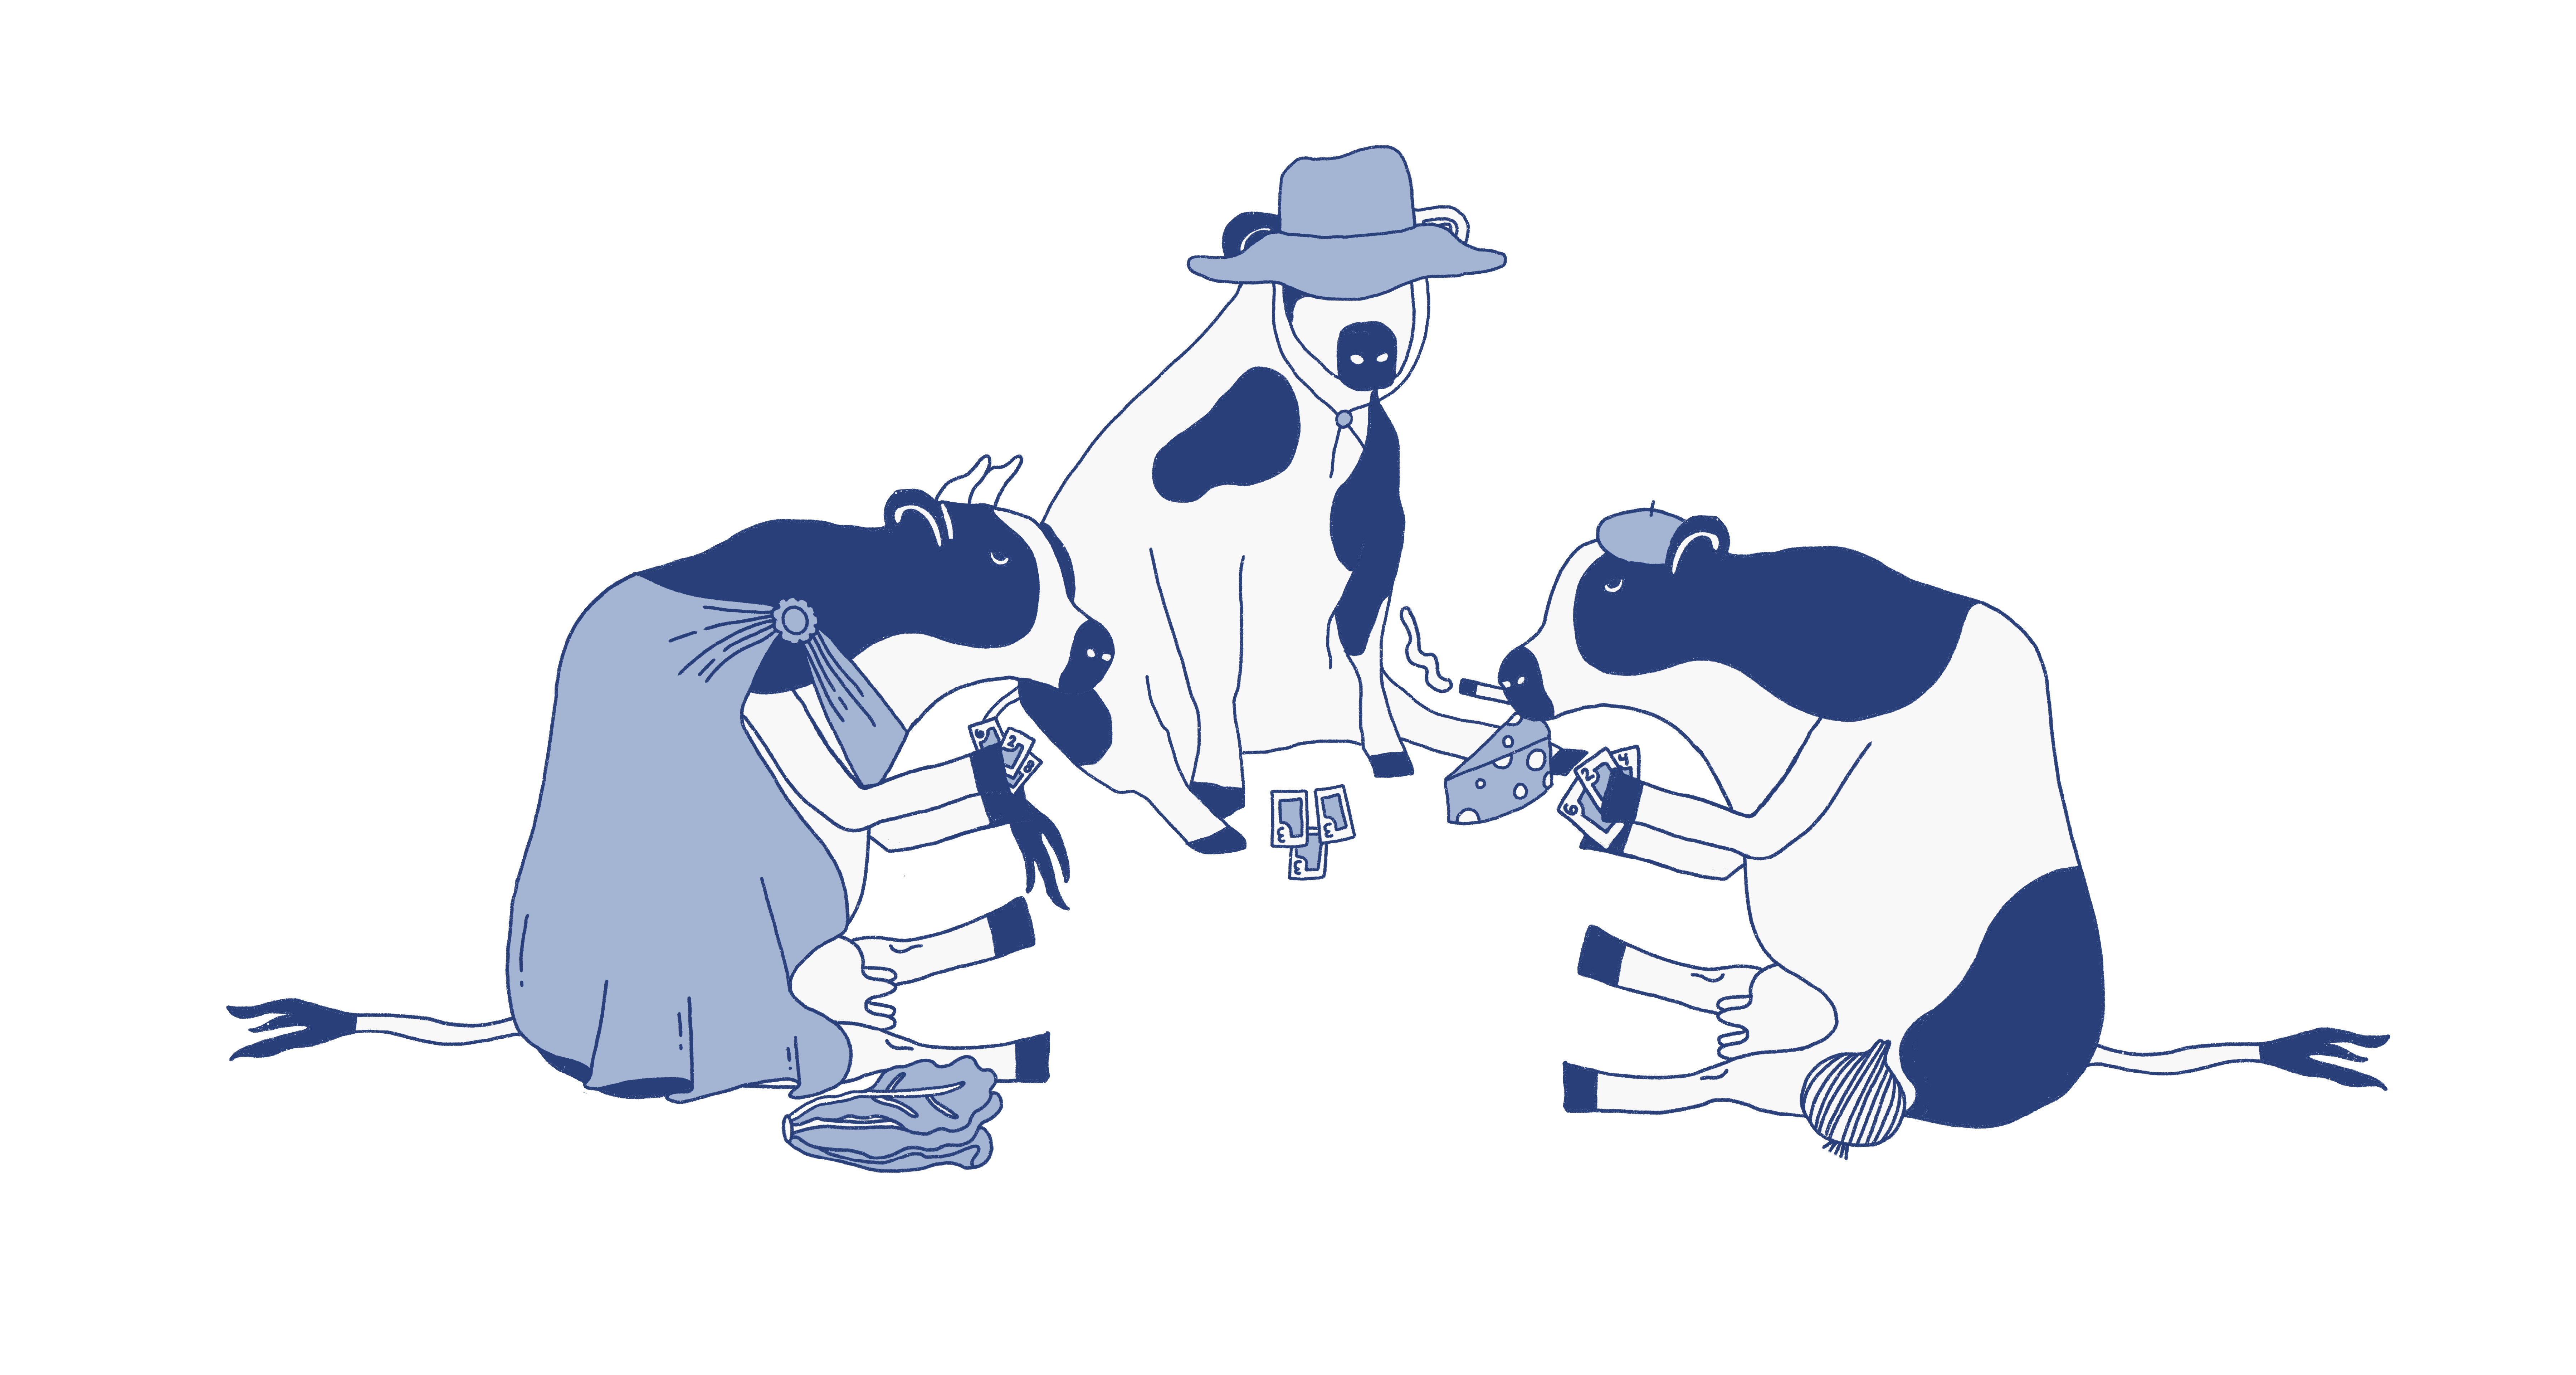
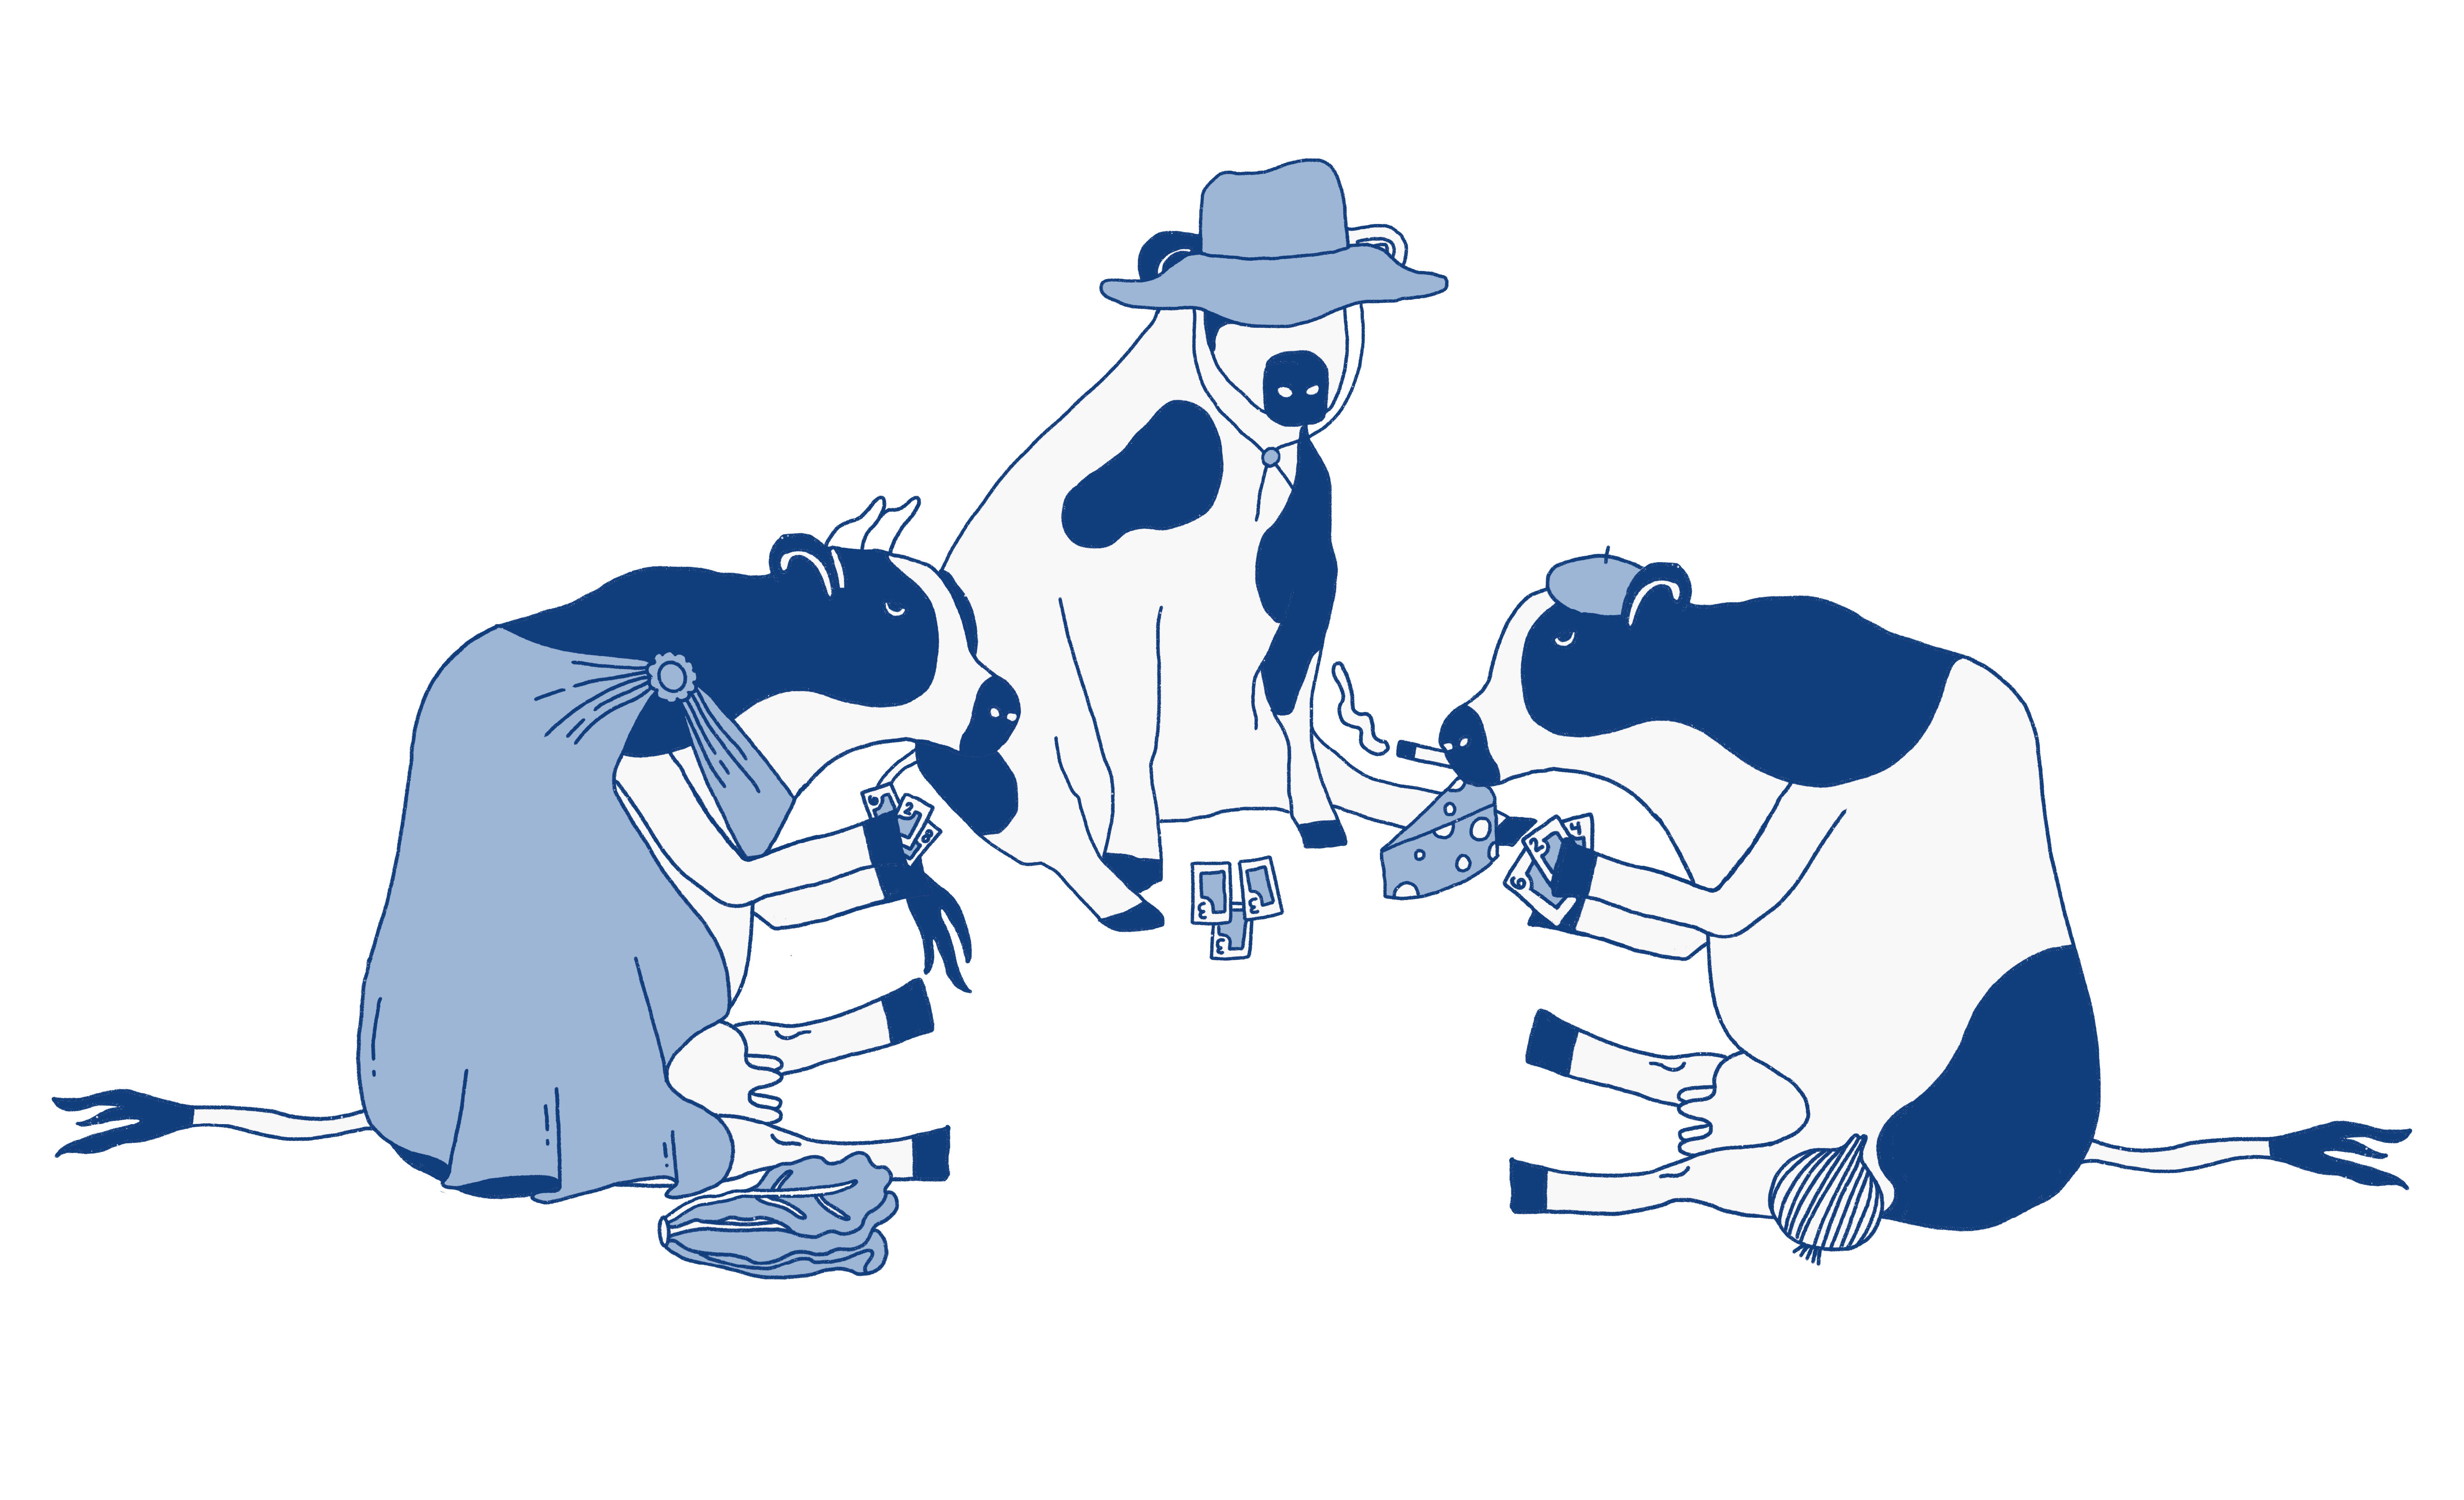
updates

Changed region(s): [[0.0312, 0.0937, 0.8112, 0.8743], [0.5928, 0.6245, 0.9984, 0.8431]]

diff --git a/data.js b/data.js
@@ -1,5 +1,16 @@
 window.photoData = [
   {
+    id: 39,
+    title: "HT Butter Drop (ButterGirlNYC)",
+    year: 2026,
+    medium: "Illustration",
+    description: "Cow illustration series for ButterGirlNYC",
+    category: "illustration",
+    img: [
+      "img/buttergirl_illustration3.png",
+    ]
+  },
+  {
     id: 38,
     title: "Holy Trinity (ButterGirlNYC)",
     year: 2026,